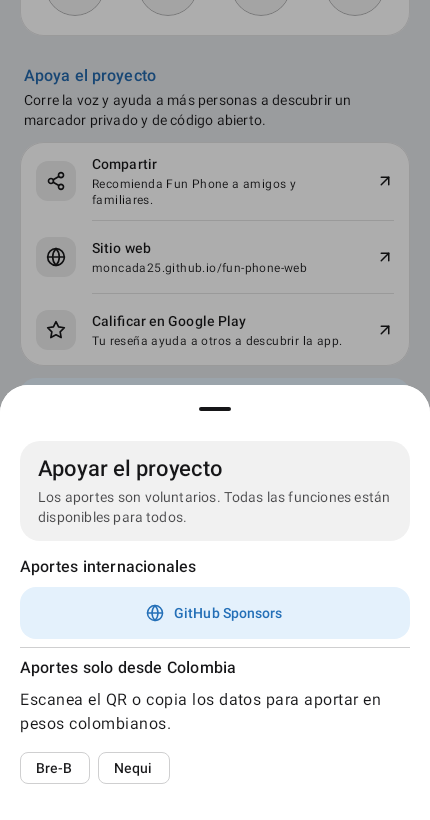
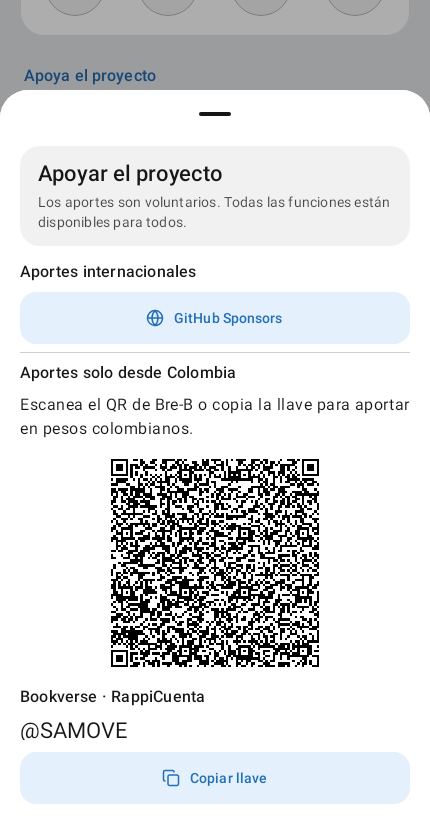
Simplify Colombian contributions to Bre-B only

diff --git a/feature/settings/src/main/java/com/bookverse/contacts/ui/screens/settings/AboutScreen.kt b/feature/settings/src/main/java/com/bookverse/contacts/ui/screens/settings/AboutScreen.kt
@@ -26,9 +26,7 @@ import androidx.compose.foundation.rememberScrollState
 import androidx.compose.foundation.verticalScroll
 import androidx.compose.foundation.shape.CircleShape
 import androidx.compose.foundation.shape.RoundedCornerShape
-import androidx.compose.foundation.selection.selectableGroup
 import androidx.compose.material3.ExperimentalMaterial3Api
-import androidx.compose.material3.FilterChip
 import androidx.compose.material3.FilledTonalButton
 import androidx.compose.material3.HorizontalDivider
 import androidx.compose.material3.Icon
@@ -423,10 +421,7 @@ fun AboutScreen(
     }
 
     if (showDonationSheet) {
-        var localMethod by rememberSaveable { mutableStateOf<ColombianPaymentMethod?>(null) }
-        val useNequi = localMethod == ColombianPaymentMethod.NEQUI
-        val paymentId = stringResource(if (useNequi) R.string.about_nequi_number else R.string.about_breb_key)
-        val recipient = stringResource(if (useNequi) R.string.about_nequi_recipient else R.string.about_breb_recipient)
+        val brebKey = stringResource(R.string.about_breb_key)
         SettingsSheetScaffold(
             title = stringResource(R.string.about_support_project),
             subtitle = stringResource(R.string.about_voluntary_contribution),
@@ -460,58 +455,35 @@ fun AboutScreen(
                     modifier = Modifier.semantics { heading() },
                 )
                 Text(stringResource(R.string.about_donation_instructions))
-                Row(
-                    modifier = Modifier.selectableGroup(),
-                    horizontalArrangement = Arrangement.spacedBy(8.dp),
-                ) {
-                    FilterChip(
-                        selected = localMethod == ColombianPaymentMethod.BREB,
-                        onClick = { localMethod = ColombianPaymentMethod.BREB },
-                        label = { Text(stringResource(R.string.about_breb_label)) },
-                    )
-                    FilterChip(
-                        selected = useNequi,
-                        onClick = { localMethod = ColombianPaymentMethod.NEQUI },
-                        label = { Text(stringResource(R.string.about_nequi_label)) },
-                    )
-                }
-                if (localMethod != null) {
-                    Image(
-                        bitmap = ImageBitmap.imageResource(
-                            if (useNequi) R.drawable.about_qr_nequi else R.drawable.about_qr_breb,
-                        ),
-                        contentDescription = stringResource(
-                            R.string.about_donation_qr,
-                            stringResource(if (useNequi) R.string.about_nequi_label else R.string.about_breb_label),
-                        ),
-                        modifier = Modifier.align(Alignment.CenterHorizontally).size(240.dp),
-                        filterQuality = FilterQuality.None,
-                    )
-                    Text(recipient, style = MaterialTheme.typography.titleMedium)
-                    Text(paymentId, style = MaterialTheme.typography.titleLarge)
-                }
-            }
-            if (localMethod != null) {
-                AboutActionButton(
-                    label = stringResource(if (useNequi) R.string.about_copy_nequi_number else R.string.about_copy_breb_key),
-                    icon = Lucide.Copy,
-                    onClick = {
-                        ContactUtils.copyToClipboard(context, paymentId, toast = false)
-                        showDonationSheet = false
-                        scope.launch {
-                            snackbar.show(
-                                message = resources.getString(CoreUiR.string.copied_to_clipboard),
-                                type = SnackbarType.Info,
-                            )
-                        }
-                    },
+                Image(
+                    bitmap = ImageBitmap.imageResource(R.drawable.about_qr_breb),
+                    contentDescription = stringResource(
+                        R.string.about_donation_qr,
+                        stringResource(R.string.about_breb_label),
+                    ),
+                    modifier = Modifier.align(Alignment.CenterHorizontally).size(228.dp),
+                    filterQuality = FilterQuality.None,
                 )
+                Text(stringResource(R.string.about_breb_recipient), style = MaterialTheme.typography.titleMedium)
+                Text(brebKey, style = MaterialTheme.typography.titleLarge)
             }
+            AboutActionButton(
+                label = stringResource(R.string.about_copy_breb_key),
+                icon = Lucide.Copy,
+                onClick = {
+                    ContactUtils.copyToClipboard(context, brebKey, toast = false)
+                    showDonationSheet = false
+                    scope.launch {
+                        snackbar.show(
+                            message = resources.getString(CoreUiR.string.copied_to_clipboard),
+                            type = SnackbarType.Info,
+                        )
+                    }
+                },
+            )
         }
     }
 }
-
-private enum class ColombianPaymentMethod { BREB, NEQUI }
 
 @Composable
 private fun AboutActionButton(

diff --git a/app/src/androidTest/java/com/bookverse/contacts/ui/screens/settings/AboutScreenTest.kt b/app/src/androidTest/java/com/bookverse/contacts/ui/screens/settings/AboutScreenTest.kt
@@ -129,7 +129,7 @@ class AboutScreenTest {
     }
 
     @Test
-    fun showsSponsorsAvailabilityForDistributionBeforeChoosingALocalMethod() {
+    fun showsSponsorsAvailabilityForDistributionAndBreBKeyAction() {
         showAboutScreen()
         scrollTo(SettingsR.string.about_support_project)
         composeRule.onNodeWithText(string(SettingsR.string.about_support_project)).performClick()
@@ -141,8 +141,7 @@ class AboutScreenTest {
             composeRule.onNodeWithText(string(SettingsR.string.about_sponsors_unavailable)).assertIsNotEnabled()
         }
         composeRule.onNodeWithText(string(SettingsR.string.about_colombia_only)).assertIsDisplayed()
-        composeRule.onNodeWithText(string(SettingsR.string.about_copy_breb_key)).assertDoesNotExist()
-        composeRule.onNodeWithText(string(SettingsR.string.about_copy_nequi_number)).assertDoesNotExist()
+        composeRule.onNodeWithText(string(SettingsR.string.about_copy_breb_key)).assertIsDisplayed()
     }
 
     @Test
@@ -150,10 +149,9 @@ class AboutScreenTest {
         showAboutScreen()
         scrollTo(SettingsR.string.about_support_project)
         composeRule.onNodeWithText(string(SettingsR.string.about_support_project)).performClick()
-        composeRule.onNodeWithText(string(SettingsR.string.about_breb_label)).performClick()
         composeRule.onNodeWithContentDescription(
             string(SettingsR.string.about_donation_qr, string(SettingsR.string.about_breb_label)),
-        ).assertIsDisplayed()
+        ).performScrollTo().assertIsDisplayed()
         val key = string(SettingsR.string.about_breb_key)
         composeRule.onNodeWithText(key).performScrollTo().assertIsDisplayed()
         composeRule.onNodeWithText(string(SettingsR.string.about_copy_breb_key)).performClick()
@@ -162,26 +160,6 @@ class AboutScreenTest {
         composeRule.runOnIdle {
             val clipboard = composeRule.activity.getSystemService(ClipboardManager::class.java)
             assertEquals(key, clipboard.primaryClip?.getItemAt(0)?.text?.toString())
-        }
-    }
-
-    @Test
-    fun copiesNequiNumberFromColombiaSheet() {
-        showAboutScreen()
-        scrollTo(SettingsR.string.about_support_project)
-        composeRule.onNodeWithText(string(SettingsR.string.about_support_project)).performClick()
-        composeRule.onNodeWithText(string(SettingsR.string.about_colombia_only)).assertIsDisplayed()
-        composeRule.onNodeWithText(string(SettingsR.string.about_nequi_label)).performClick()
-        composeRule.onNodeWithContentDescription(
-            string(SettingsR.string.about_donation_qr, string(SettingsR.string.about_nequi_label)),
-        ).assertIsDisplayed()
-        val number = string(SettingsR.string.about_nequi_number)
-        composeRule.onNodeWithText(number).performScrollTo().assertIsDisplayed()
-        composeRule.onNodeWithText(string(SettingsR.string.about_copy_nequi_number)).performClick()
-
-        composeRule.runOnIdle {
-            val clipboard = composeRule.activity.getSystemService(ClipboardManager::class.java)
-            assertEquals(number, clipboard.primaryClip?.getItemAt(0)?.text?.toString())
         }
     }
 
